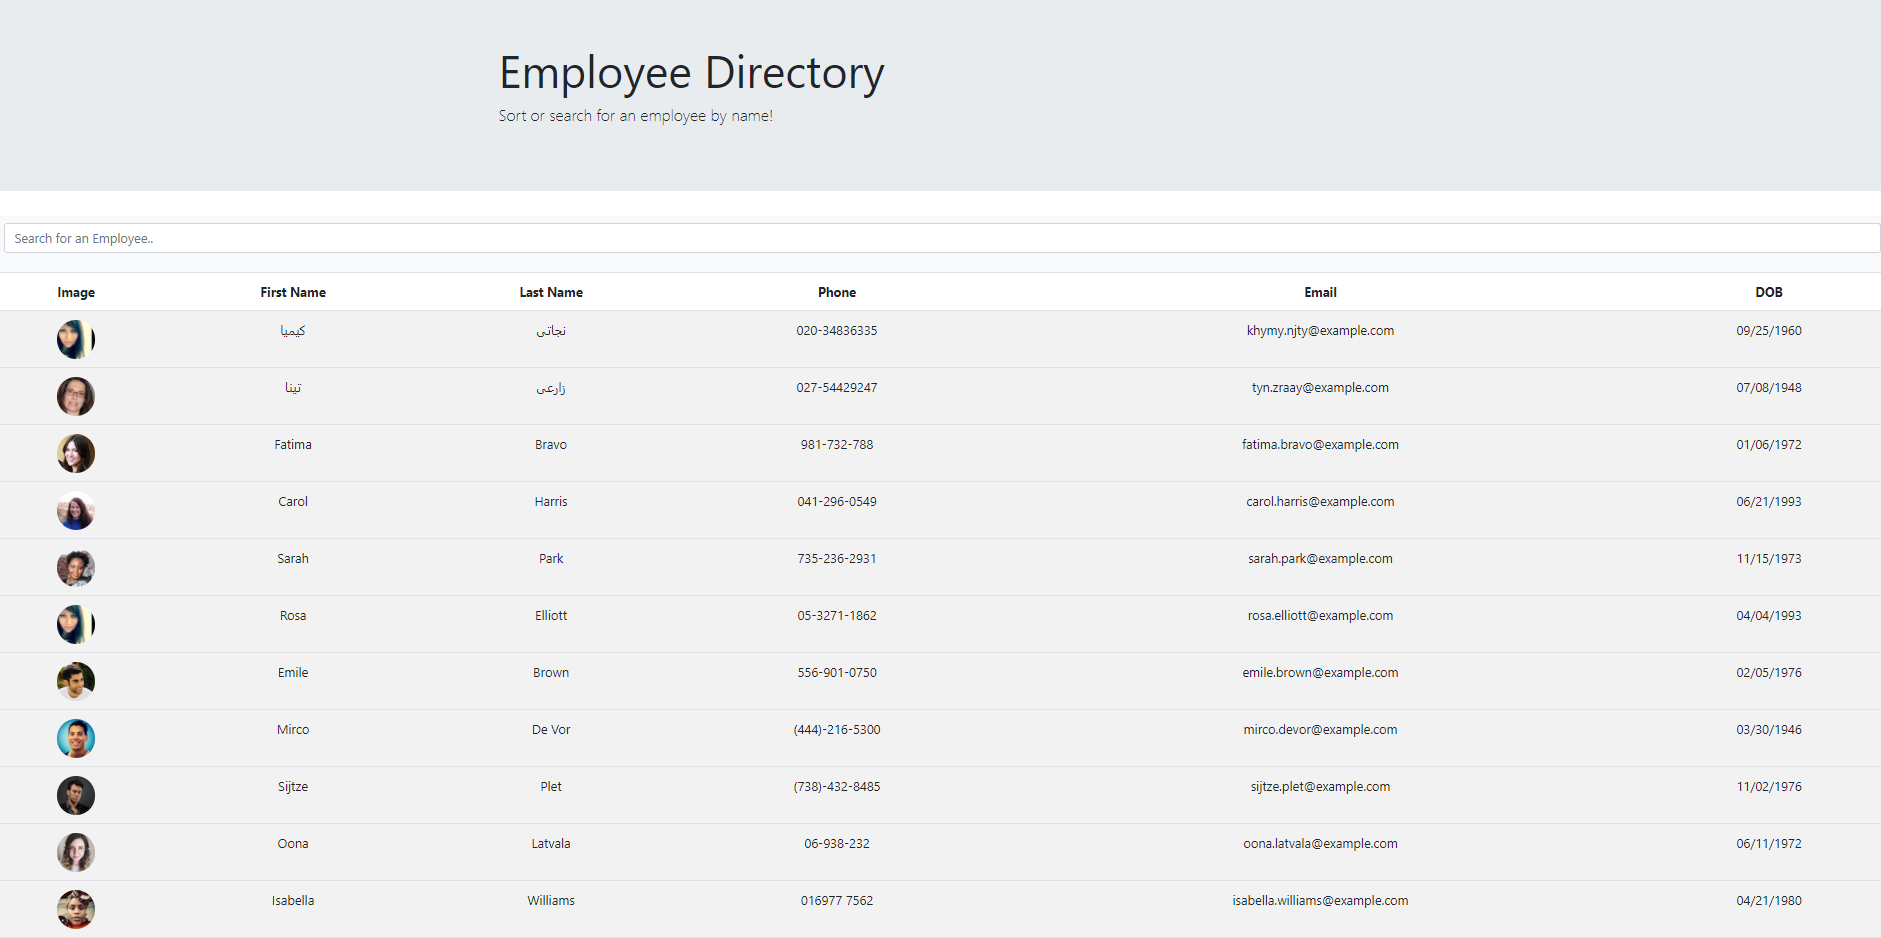
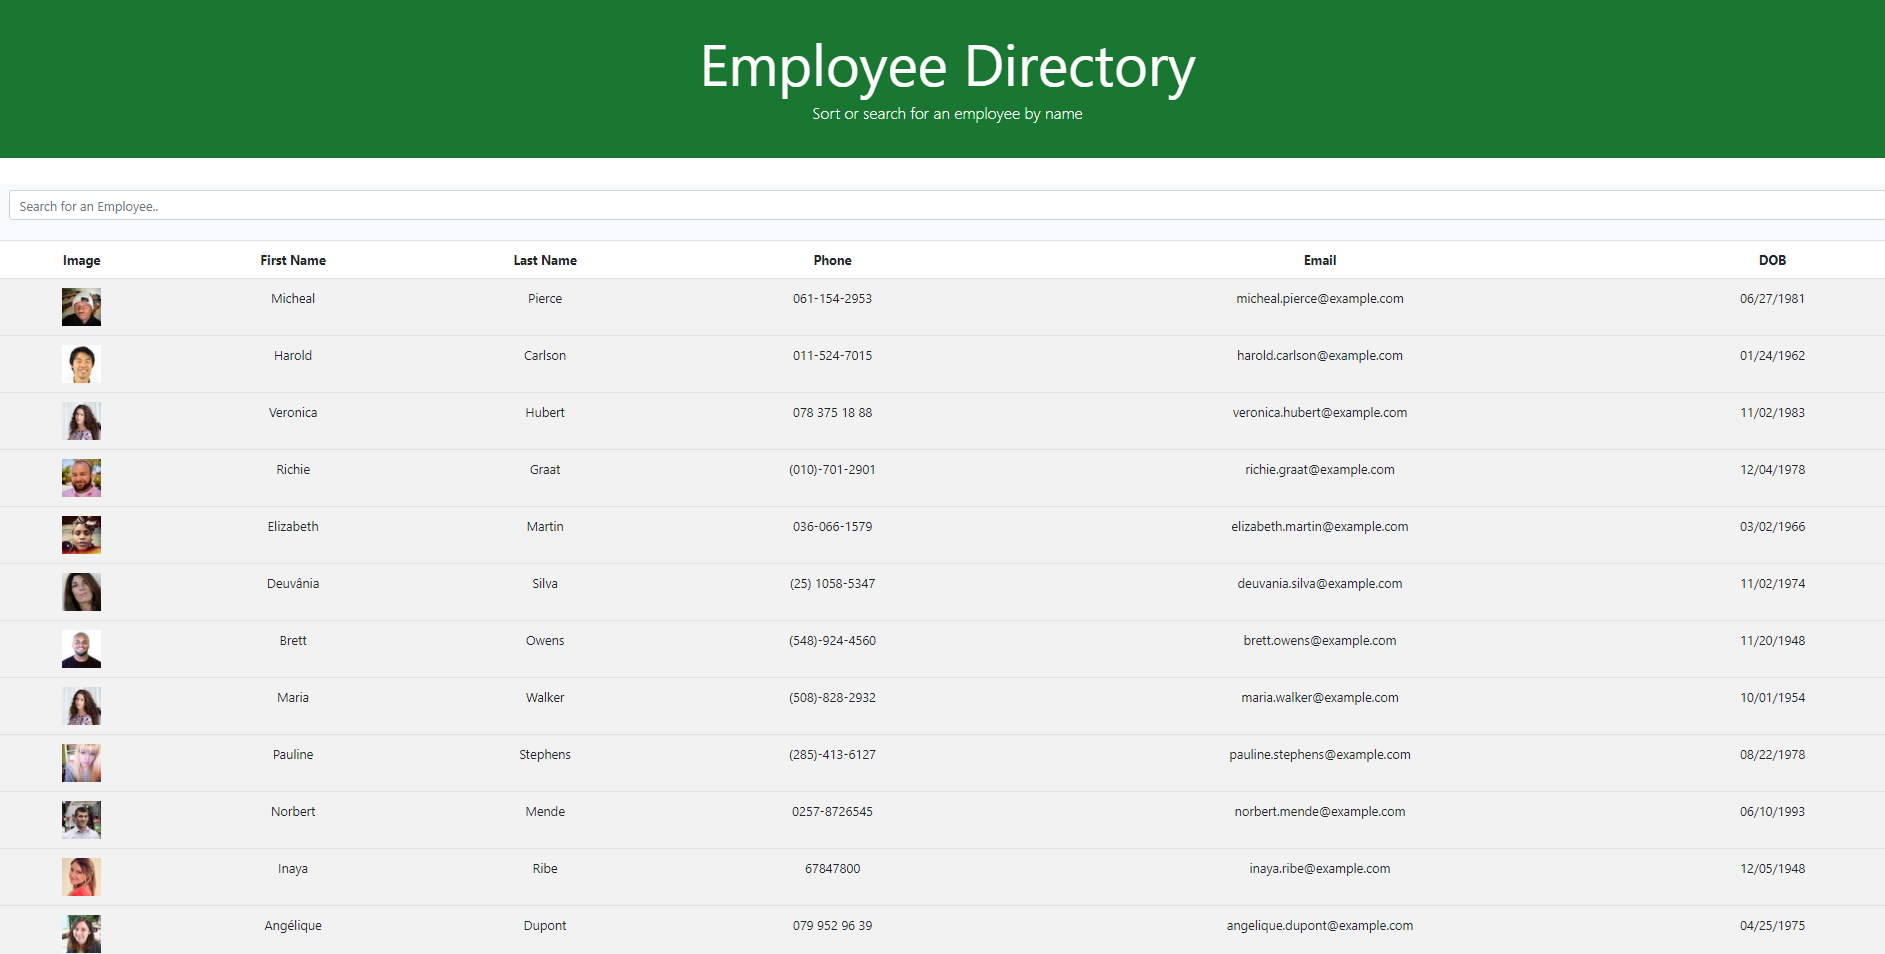
added styling

diff --git a/src/components/Table.js b/src/components/Table.js
@@ -2,6 +2,7 @@ import React, { Component } from "react";
 import API from "../utils/API";
 import Navbar from "./Navbar";
 import moment from 'moment';
+import "./styles.css";
 
 class Table extends Component {
 
@@ -74,7 +75,7 @@ class Table extends Component {
                     search={this.state.search} />
 
                 <div className="table-responsive">
-                    <table className="table table-striped table-resposive text-center table-hover">
+                    <table className="table table-striped table-resposive text-center">
                         <thead>
                             <tr>
                                 <th>Image</th>
@@ -86,31 +87,28 @@ class Table extends Component {
                             </tr>
                         </thead>
 
-                        { //First Name sort
-                            this.state.results && this.state.results.map(item =>
-                                item.name.first.toLowerCase().includes(this.state.search) ?
-                                    <tbody key={item.login.uuid}>
+                        {this.state.results && this.state.results.map(empl =>
+                                empl.name.first.toLowerCase().includes(this.state.search) ?
+                                    <tbody key={empl.login.uuid}>
                                         <tr>
-                                            <td ><img src={item.picture.thumbnail} className="rounded-circle" alt="thumbnail" /></td>
-                                            <td >{item.name.first}</td>
-                                            <td >{item.name.last}</td>
-                                            <td >{item.phone}</td>
-                                            <td >{item.email}</td>
-                                            <td>{moment(item.dob.date).format("L")}</td>
+                                            <td ><img src={empl.picture.thumbnail} alt="avatar"/></td>
+                                            <td >{empl.name.first}</td>
+                                            <td >{empl.name.last}</td>
+                                            <td >{empl.phone}</td>
+                                            <td >{empl.email}</td>
+                                            <td>{moment(empl.dob.date).format("L")}</td>
                                         </tr>
                                     </tbody>
-
                                     :
-                                    //Last Name sort
-                                    item.name.last.toLowerCase().includes(this.state.search) ?
-                                        <tbody key={item.login.uuid}>
+                                    empl.name.last.toLowerCase().includes(this.state.search) ?
+                                        <tbody key={empl.login.uuid}>
                                             <tr>
-                                                <td ><img src={item.picture.thumbnail} className="rounded-circle" alt="thumbnail" /></td>
-                                                <td >{item.name.first}</td>
-                                                <td >{item.name.last}</td>
-                                                <td >{item.phone} </td>
-                                                <td >{item.email}</td>
-                                                <td>{moment(item.dob.date).format("L")}</td>
+                                                <td ><img src={empl.picture.thumbnail} alt="avatar" /></td>
+                                                <td >{empl.name.first}</td>
+                                                <td >{empl.name.last}</td>
+                                                <td >{empl.phone} </td>
+                                                <td >{empl.email}</td>
+                                                <td>{moment(empl.dob.date).format("L")}</td>
                                             </tr>
                                         </tbody>
                                         :

diff --git a/src/components/Navbar.js b/src/components/Navbar.js
@@ -7,10 +7,10 @@ const Navbar = (props) => {
 
   return (
     <div>
-      <div className="jumbotron jumbotron-fluid" id="jumbotron">
+      <div className="jumbotron jumbotron-fluid">
         <div className="container">
-          <h1 className="display-4"><b>Employee Directory</b></h1>
-          <p className="lead">Sort or search for an employee by name!</p>
+          <h1 className="display-3"><b>Employee Directory</b></h1>
+          <h2 className="lead">Sort or search for an employee by name</h2>
         </div>
       </div>
       <nav className="navbar navbar-expand-lg navbar-light bg-light">

diff --git a/src/components/styles.css b/src/components/styles.css
@@ -1,0 +1,13 @@
+.jumbotron {
+    height: 200px;
+    color: white;
+    background-color: #197731;
+    display: flex;
+    text-align: center;
+    align-items: center;
+    justify-content: center;
+}
+
+.sort-name {
+    cursor: pointer;
+}
